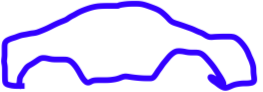
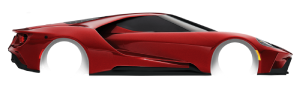
new img assets

diff --git a/game.js b/game.js
@@ -6,7 +6,7 @@ var gravity = 0.15;
 function startGame() {
     wheelBehind = new wheel(601, 100,0, 25, "wheel.png",  "image");
     wheelAhead = new wheel(599, 100,0, 25, "wheel.png",  "image");
-    car1 = new car(wheelAhead,wheelBehind, 70,50, "body.png","image");
+    car1 = new car(wheelAhead,wheelBehind, 75,25, "body.png","image");
     terrain = new terrain([200,300,325,325,300,260,250,290,370,500,450,425,400,375,300,310,340,310,250,200,300,325,325,300,260,250,290,370,500,450,425,400,375,300,310,340,310,250,200,300,325,325,300,260,250,290,370,500,450,425,400,375,300,310,340,310,250,200,300,325,325,300,260,250,290,370,500,450,425,400,375,300,310,340,310,250,200,300,325,325,300,260,250,290,370,500,450,425,400,375,300,310,340,310,250,200,300,325,325,300,260,250,290,370,500,450,425,400,375,300,310,340,310,250,200,300,325,325,300,260,250,290,370,500,450,425,400,375,300,310,340,310,250,200,300,325,325,300,260,250,290,370,500,450,425,400,375,300,310,340,310,250], 150);
     myGameArea.start();
 }
